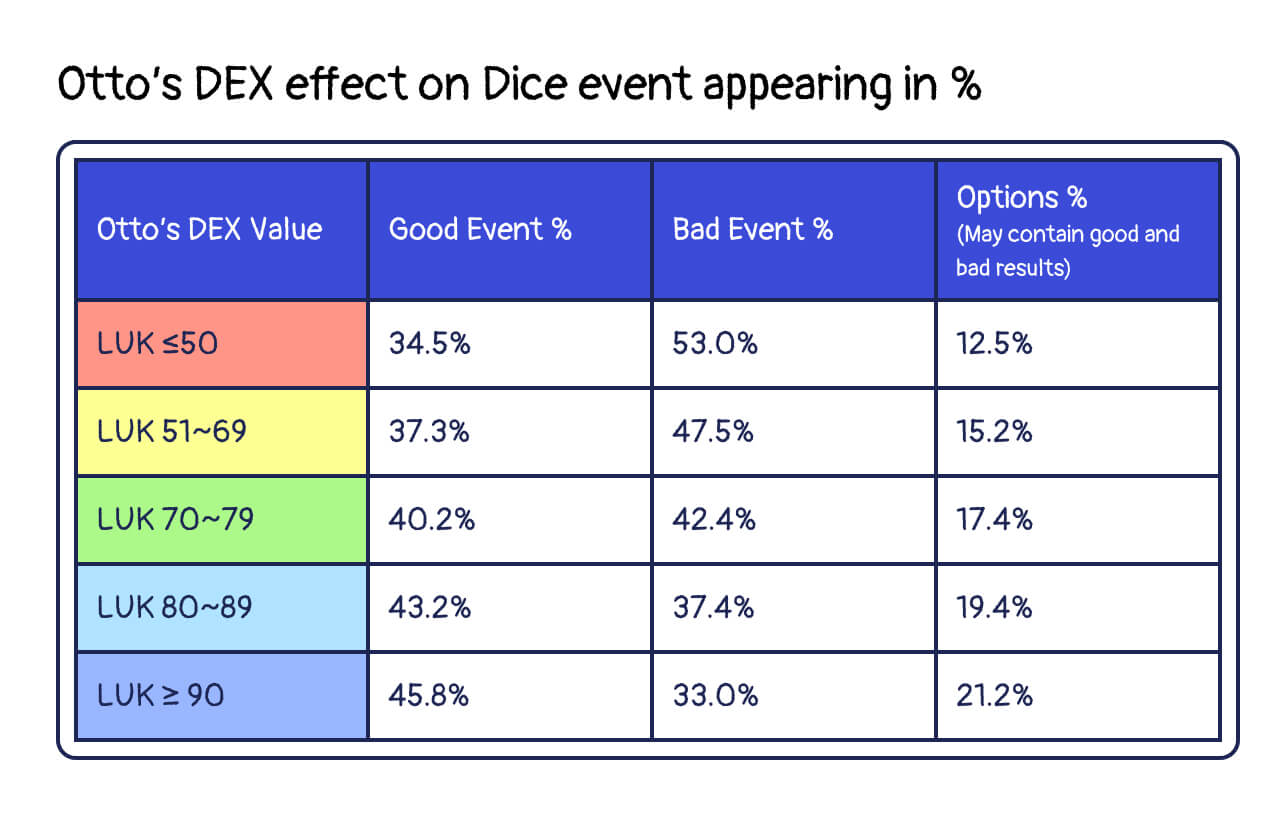
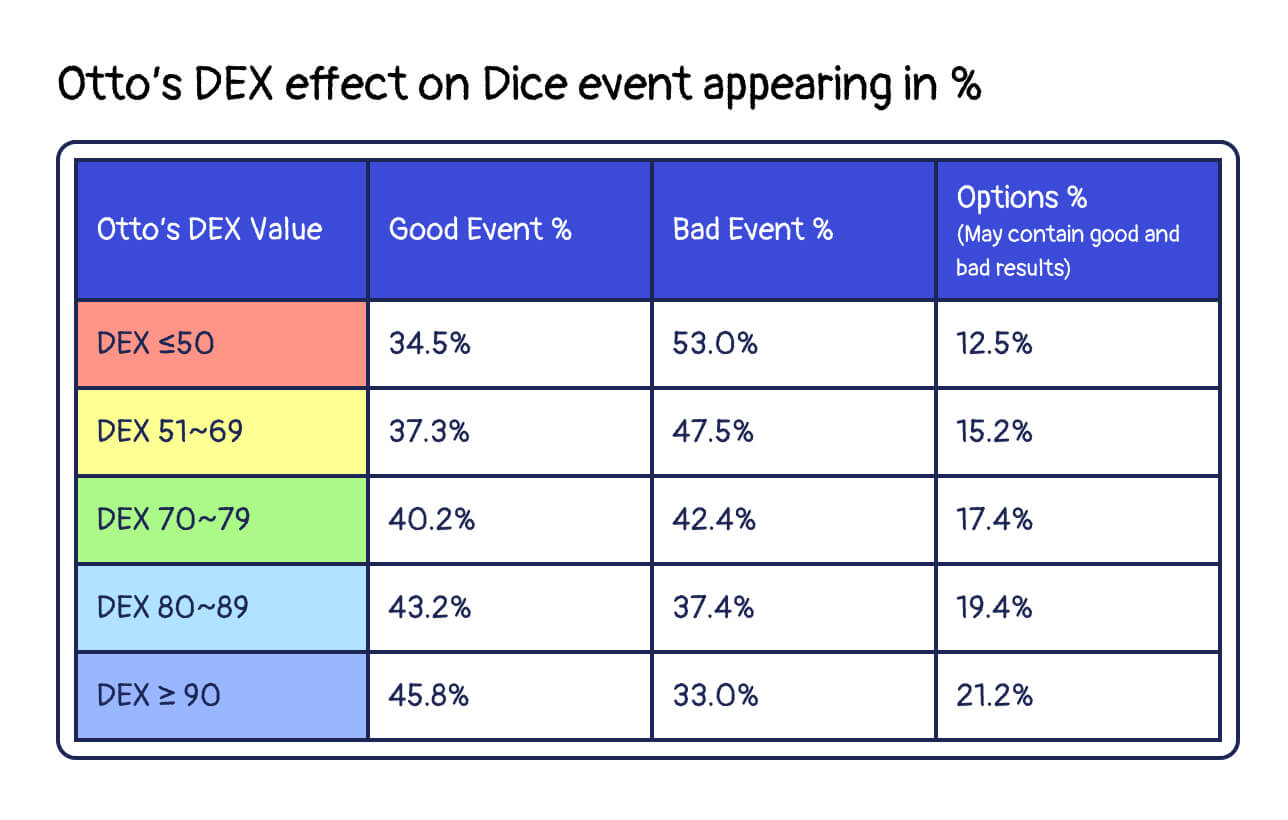
update dex chart

diff --git a/docs/ottopia/gameplay/leaderboard.md b/docs/ottopia/gameplay/leaderboard.md
@@ -73,11 +73,11 @@ The Dice of Destiny gives players a chance to temporarily boost your BRS for the
 * Some of the results have a positive effect on your Otto’s BRS, While some have a negative effect on your Otto’s BRS.
 * Some results require an additional selection. Your choice will determine the fate of your Otto.
 * The BRS effect from rolling the Dice of Destiny only lasts for the current epoch, and will be removed as soon as it ends.
-* Do you know your Otto’s LUK value can actually affect the result? The more LUK your Otto has, the more likely the dice will roll good results.
+* Do you know your Otto’s DEX value can actually affect the result? The more LUK your Otto has, the more likely the dice will roll good results.
 
-Here is the formula of Otto’s LUK effect on Dice event appearing in %
+Here is the formula of Otto’s DEX effect on Dice event appearing in %
 
-![Dice of Destiny](./img/luk_dice.jpg)
+![Dice of Destiny](./img/dex-effect-on-dice-event.jpg)
 
 * The Dice results only affect the Otto you choose to roll a dice for.
 
